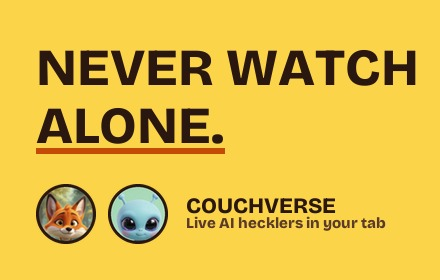
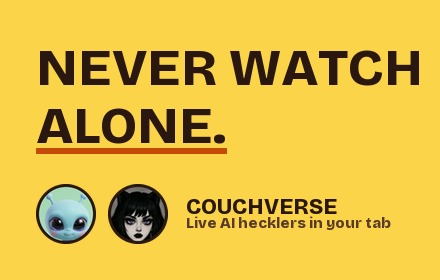
Bump extension to 1.2.0 and refresh promo materials with Cat girl persona

diff --git a/chrome_extension/src/session.js b/chrome_extension/src/session.js
@@ -19,8 +19,8 @@ import { RoomController } from "./livekit/room-controller.js";
 import { detectActiveMedia, syncPlayheadToAgent } from "./messaging/tab-bridge.js";
 import { personaFromAvatarIdentity, resolvePersonaKey } from "./persona.js";
 import {
-  createSessionApi,
   EXPECTED_PERSONA_MANIFEST_VERSION,
+  createSessionApi,
   friendlyApiError,
 } from "./transport/api.js";
 import { captureAndPublishTabAudio, stopTabStream } from "./transport/tab-capture.js";
@@ -236,9 +236,7 @@ export class SessionLifecycle {
       // rejects and the catch below tears down whatever already
       // succeeded. Connection ordering doesn't matter, so don't
       // serialize.
-      await Promise.all(
-        [...this._controllers.values()].map((c) => c.connect(payload.livekit_url)),
-      );
+      await Promise.all([...this._controllers.values()].map((c) => c.connect(payload.livekit_url)));
 
       // Tab audio publishes exactly once, to the primary room only.
       // Secondary rooms must not see this uplink — duplicating it would
@@ -588,7 +586,6 @@ export class SessionLifecycle {
       this._updateSkipButton();
       return;
     }
-
   }
 
   // VAD-driven active-speaker updates highlight the matching slot only
@@ -628,22 +625,32 @@ export class SessionLifecycle {
     if (reason === DisconnectReason.CLIENT_INITIATED) {
       console.log(
         "[ext] Room disconnected (client-initiated):",
-        "name=", roomName, "role=", role, "persona=", persona,
+        "name=",
+        roomName,
+        "role=",
+        role,
+        "persona=",
+        persona,
       );
       return;
     }
     console.warn(
       "[ext] Room disconnected mid-session — ending session:",
-      "name=", roomName, "role=", role, "persona=", persona, "reason=", reason,
+      "name=",
+      roomName,
+      "role=",
+      role,
+      "persona=",
+      persona,
+      "reason=",
+      reason,
     );
     // First disconnect wins. Subsequent calls (e.g. the second room
     // dropping moments later) hit the state guard inside `end()` and
     // become no-ops.
     if (this._state !== SessionState.LIVE) return;
     showError("Connection lost — please restart");
-    this.end().catch((err) =>
-      console.warn("[ext] auto-end on room disconnect failed:", err),
-    );
+    this.end().catch((err) => console.warn("[ext] auto-end on room disconnect failed:", err));
   }
 
   _onParticipantConnected(participant) {
@@ -708,8 +715,6 @@ export class SessionLifecycle {
   // surfaces an error on the setup screen the user lands back on.
   _failSafePrimaryLost() {
     showError("Lost connection to commentary — please restart");
-    this.end().catch((err) =>
-      console.warn("[ext] auto-end on lost primary failed:", err),
-    );
+    this.end().catch((err) => console.warn("[ext] auto-end on lost primary failed:", err));
   }
 }

diff --git a/chrome_extension/src/livekit/room-controller.js b/chrome_extension/src/livekit/room-controller.js
@@ -74,9 +74,12 @@ export class RoomController {
     await this._room.connect(livekitUrl, this._token);
     console.log(
       "[ext] Connected to LiveKit room",
-      "name=", this._roomName,
-      "role=", this._role,
-      "persona=", this._persona,
+      "name=",
+      this._roomName,
+      "role=",
+      this._role,
+      "persona=",
+      this._persona,
     );
   }
 

diff --git a/chrome_extension/src/ui/avatar-slots.js b/chrome_extension/src/ui/avatar-slots.js
@@ -33,9 +33,12 @@ export function mountAvatarVideo(slot, track, roomName = null) {
   if (roomName && existingRoom && existingRoom !== roomName) {
     console.warn(
       "[ext] avatar slot already owned by a different room — unexpected, expected one persona per room",
-      "persona=", slot.dataset.name,
-      "existingRoom=", existingRoom,
-      "incomingRoom=", roomName,
+      "persona=",
+      slot.dataset.name,
+      "existingRoom=",
+      existingRoom,
+      "incomingRoom=",
+      roomName,
     );
   }
   const el = track.attach();

diff --git a/chrome_extension/src/sidepanel.js b/chrome_extension/src/sidepanel.js
@@ -17,8 +17,8 @@ import { SessionLifecycle } from "./session.js";
 import { fetchPersonasApi, friendlyApiError } from "./transport/api.js";
 import { showError } from "./ui/avatar-slots.js";
 import { initPacingControls } from "./ui/pacing-controls.js";
-import { initSelectionModeControl } from "./ui/selection-mode-control.js";
 import { renderSetupSlots } from "./ui/persona-renderer.js";
+import { initSelectionModeControl } from "./ui/selection-mode-control.js";
 
 const $ = (sel) => document.querySelector(sel);
 

diff --git a/chrome_extension/src/ui/selection-mode-control.js b/chrome_extension/src/ui/selection-mode-control.js
@@ -11,10 +11,10 @@
  */
 
 import {
+  SELECTION_MODES,
   SELECTION_MODE_DEFAULT,
   SELECTION_MODE_SCHEMA_VERSION,
   SELECTION_MODE_STORAGE_KEY,
-  SELECTION_MODES,
 } from "../config.js";
 
 let mode = SELECTION_MODE_DEFAULT;

diff --git a/chrome_extension/promo/build.py b/chrome_extension/promo/build.py
@@ -1,7 +1,7 @@
 """Compose Chrome Web Store promo tiles for Couchverse.
 
 Reuses the website's neo-brutalist design language: yolk/cream backgrounds,
-thick ink borders, hard offset shadows, fox & alien character art.
+thick ink borders, hard offset shadows, alien & cat girl character art.
 
 Run:  python3 chrome_extension/promo/build.py
 """
@@ -28,7 +28,7 @@ HERE = Path(__file__).resolve().parent
 ICONS = HERE.parent / "icons"
 
 BRICOLAGE = str(HERE / "Bricolage-ExtraBold.ttf")
-FOX_PORTRAIT = ICONS / "fox_2x3.jpg"
+CAT_GIRL_PORTRAIT = ICONS / "cat_girl_2x3.png"
 ALIEN_PORTRAIT = ICONS / "alien_2x3.jpg"
 OUT = HERE
 
@@ -304,11 +304,11 @@ def make_small():
     pair_cx_right = pair_cx_left + avatar_r * 2 + 12
     avatar_cy = H - M - avatar_r
 
-    fox_face = crop_face(FOX_PORTRAIT, 240, focus_y_frac=0.28)
     alien_face = crop_face(ALIEN_PORTRAIT, 240, focus_y_frac=0.30)
-    paste_circle(img, fox_face, cx=pair_cx_left, cy=avatar_cy,
+    cat_girl_face = crop_face(CAT_GIRL_PORTRAIT, 240, focus_y_frac=0.28)
+    paste_circle(img, alien_face, cx=pair_cx_left, cy=avatar_cy,
                  radius=avatar_r, border_width=3)
-    paste_circle(img, alien_face, cx=pair_cx_right, cy=avatar_cy,
+    paste_circle(img, cat_girl_face, cx=pair_cx_right, cy=avatar_cy,
                  radius=avatar_r, border_width=3)
 
     # Wordmark stack to the right of avatars
@@ -368,7 +368,7 @@ def make_marquee():
     sub_y = line2_y + 124
     draw.text(
         (LX, sub_y),
-        "Fox & Alien — live AI hecklers in your Chrome tab.",
+        "Alien & Cat girl — live AI hecklers in your Chrome tab.",
         fill=INK_SOFT, font=sub_font,
     )
 
@@ -379,29 +379,29 @@ def make_marquee():
          bg=FOX, fg=PAPER, pad=(26, 16), shadow=(8, 8))
 
     # ===== RIGHT HALF: characters + speech bubble + stickers =====
-    fox_img = Image.open(FOX_PORTRAIT).convert("RGB")
     alien_img = Image.open(ALIEN_PORTRAIT).convert("RGB")
+    cat_girl_img = Image.open(CAT_GIRL_PORTRAIT).convert("RGB")
 
     # Cards live entirely inside the 76px right margin and 64px bottom margin
     # (with rotation/shadow overhead accounted for).
     card_w, card_h = 220, 320
     cards_cy = 300
-    fox_cx = 935
-    alien_cx = 1155
-    paste_rotated_card(
-        img, fox_img,
-        center=(fox_cx, cards_cy), size=(card_w, card_h),
-        angle_deg=-4, radius=22, border_width=5,
-        shadow_offset=(8, 8), label="FOX", label_bg=FOX,
-    )
+    alien_cx = 935
+    cat_girl_cx = 1155
     paste_rotated_card(
         img, alien_img,
         center=(alien_cx, cards_cy), size=(card_w, card_h),
-        angle_deg=4, radius=22, border_width=5,
+        angle_deg=-4, radius=22, border_width=5,
         shadow_offset=(8, 8), label="ALIEN", label_bg=ALIEN,
     )
+    paste_rotated_card(
+        img, cat_girl_img,
+        center=(cat_girl_cx, cards_cy), size=(card_w, card_h),
+        angle_deg=4, radius=22, border_width=5,
+        shadow_offset=(8, 8), label="CAT GIRL", label_bg=CHEEK,
+    )
 
-    # Speech bubble — sits above the fox card; the bubble itself is the "hot take",
+    # Speech bubble — sits above the left card; the bubble itself is the "hot take",
     # so no separate HOT TAKE sticker (which would clutter and overlap the text).
     bubble_font = font(BRICOLAGE, 22)
     speech_bubble(
@@ -412,7 +412,7 @@ def make_marquee():
         shadow=(6, 6),
     )
 
-    # Single accent sticker, anchored to the alien card
+    # Single accent sticker, anchored to the right card
     stk_font = font(BRICOLAGE, 18)
     sticker(img, (1235, 475), "UNHINGED", stk_font, bg=ALIEN, angle_deg=6)
 